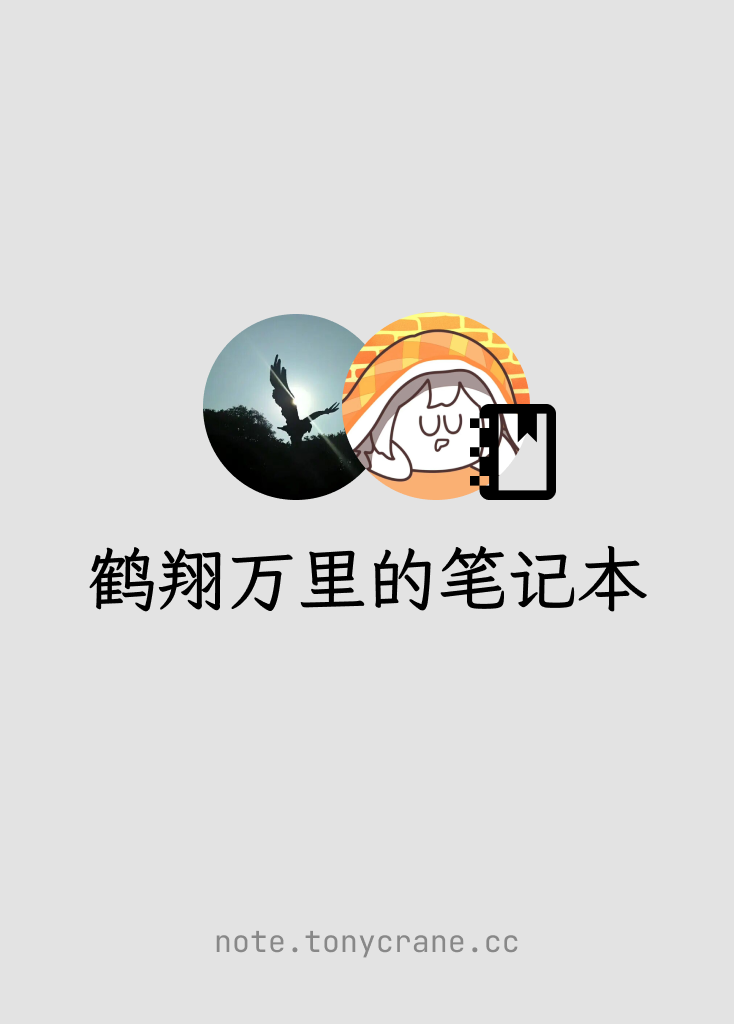
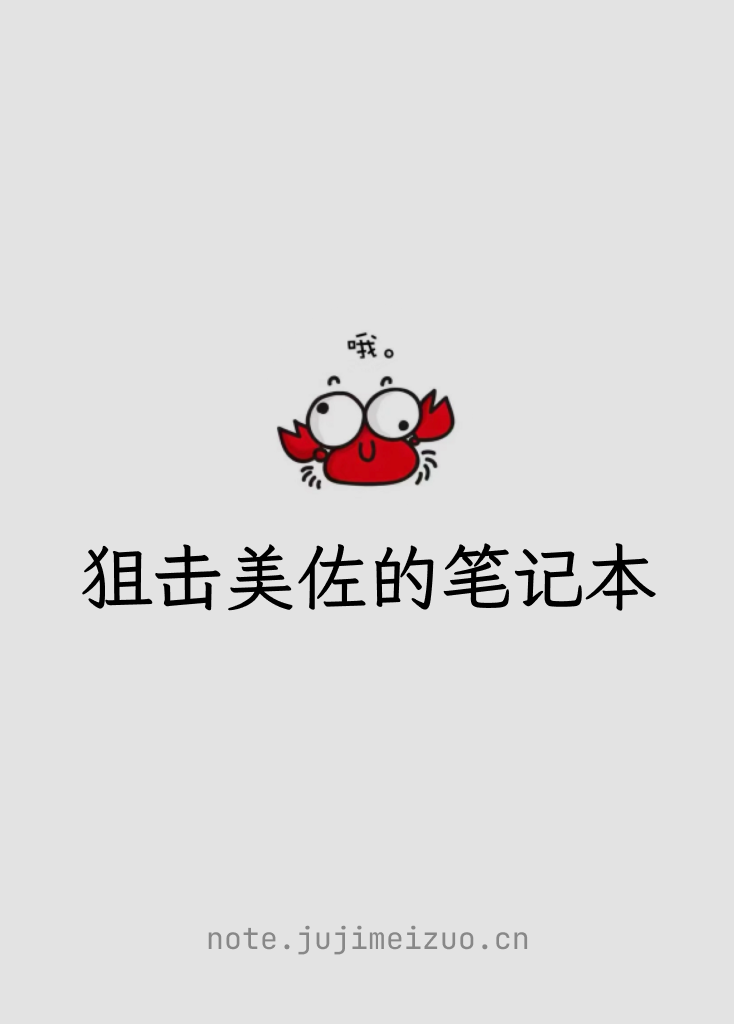
[upload] back.png

Changed region(s): [[0.2698, 0.2812, 0.7793, 0.5], [0.1199, 0.5312, 0.8992, 0.5938], [0.2698, 0.9062, 0.7193, 0.9375]]

diff --git a/src/App.svelte b/src/App.svelte
@@ -2,11 +2,7 @@
 	// import Card from "./lib/components/card.svelte";
 	import Card from "./lib/components/card-proxy.svelte";
 	const cardInfos = [
-		["#", "/assets/cards/160_hires.png"],
-		["#", "/assets/cards/1_hires.png"],
-		["#", "/assets/cards/7_hires.png"],
-		["#", "/assets/cards/33_hires.png"],
-		// ["#", "/assets/cards/back.png"],
+		["#", "/assets/cards/back.png"],
 		// ["/cs/pl/riscv/", "/assets/cards/riscv.png"],
 		// ["/cs/pl/rust/basic/", "/assets/cards/rust.png"],
 		// ["/cs/pl/haskell/", "/assets/cards/haskell.png"],
